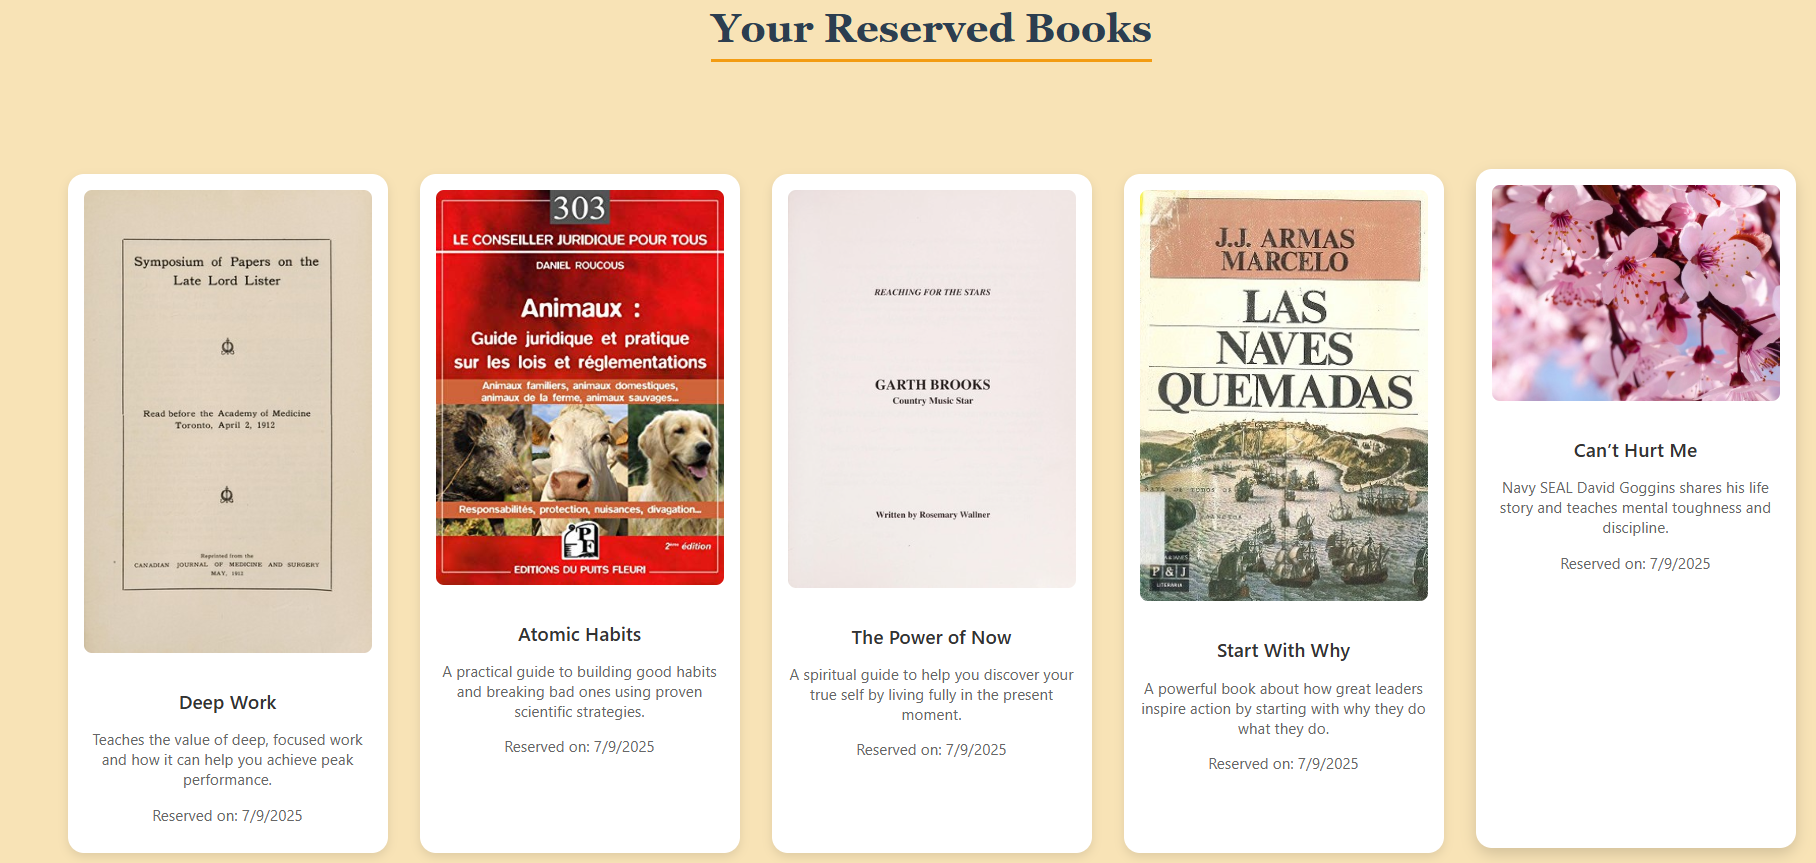
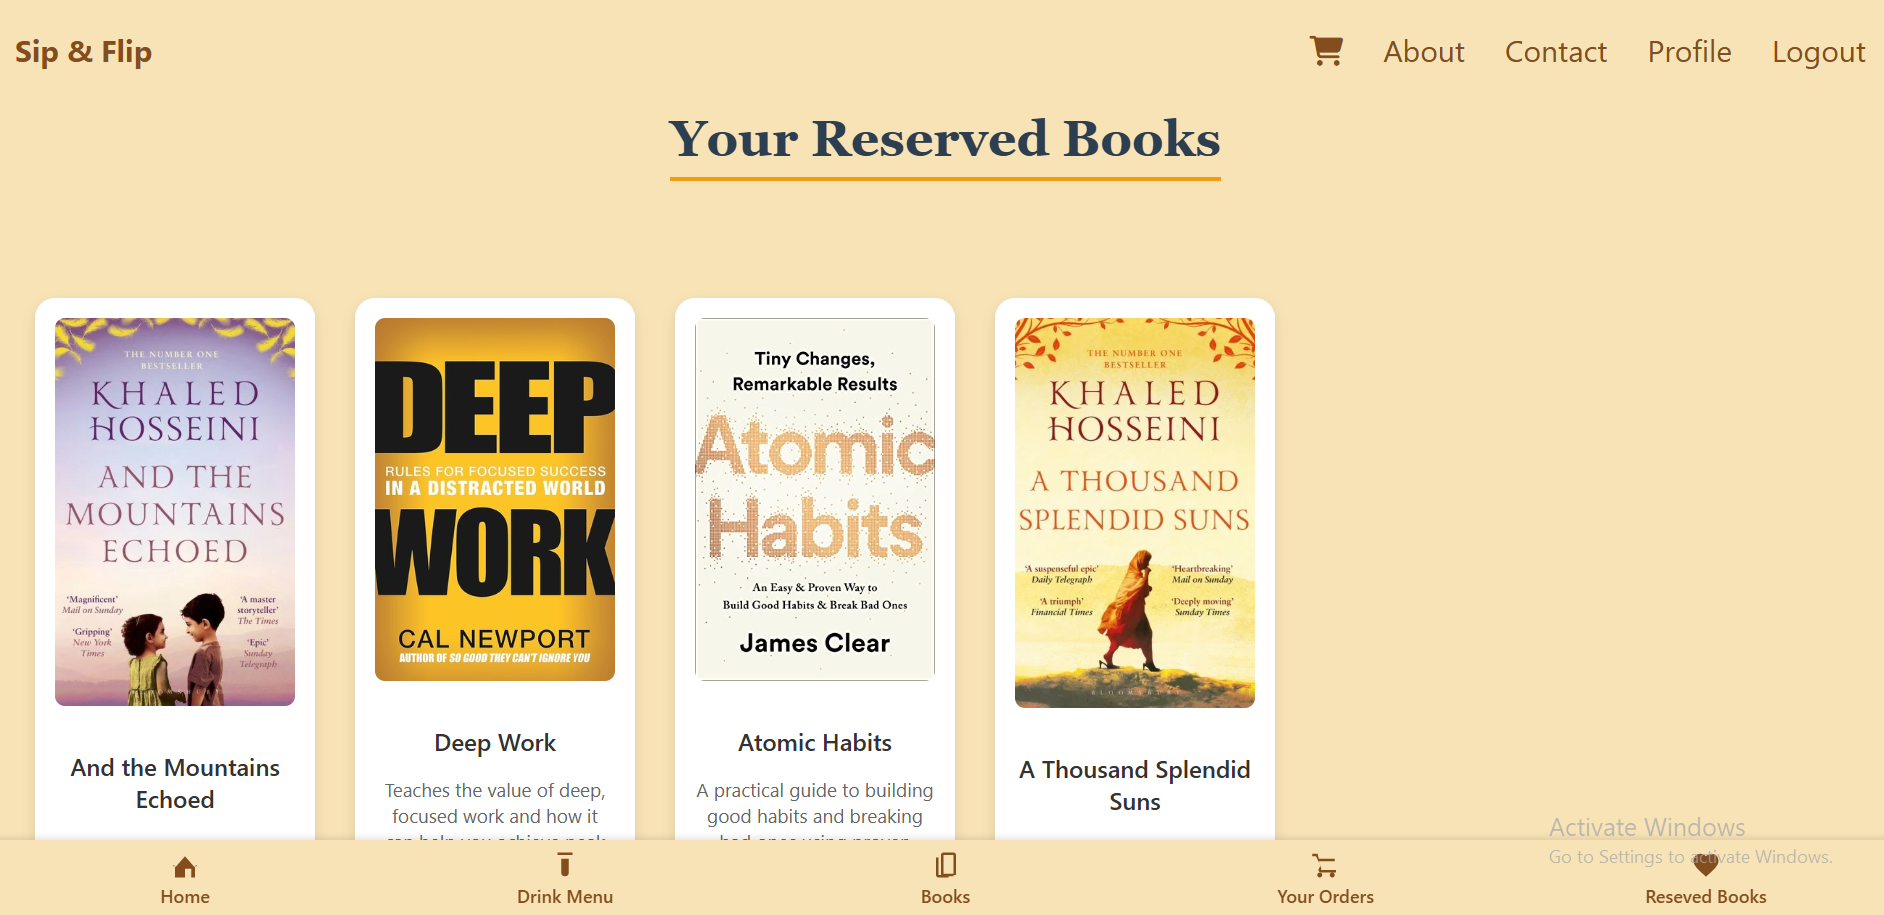
Add new screenshots

diff --git a/public/css/styles.css b/public/css/styles.css
@@ -12,8 +12,7 @@ h2 {
   margin-bottom: 2rem;
 }
 
-.order-container,
-.cart-container {
+.order-container {
   display: flex;
   flex-direction: column;
   gap: 2rem;
@@ -201,7 +200,7 @@ button.checkout-btn:hover {
 
 .place-order-form {
   text-align: center;
-  margin-top: 2rem;
+  margin-top: 0.5rem;
 }
 
 .place-order-btn {
@@ -281,7 +280,7 @@ button.checkout-btn:hover {
   flex-direction: column;
   align-items: center;
   gap: 1rem;
-  margin: 2rem auto;
+  margin: 0rem auto;
 }
 .search_container {
   display: flex;
@@ -313,8 +312,8 @@ button.checkout-btn:hover {
   display: flex;
   flex-wrap: wrap;
   gap: 2rem;
-  padding: 5rem;
-  justify-content: center;
+  padding: 2rem;
+  justify-content: space-between;
   padding-bottom: 5rem;
 }
 
@@ -339,7 +338,7 @@ button.checkout-btn:hover {
   background-color: #fff;
   border-radius: 1rem;
   box-shadow: 0 4px 10px rgba(0, 0, 0, 0.1);
-  width: 18rem;
+  width: 12rem;
   display: flex;
   flex-direction: column;
   align-items: center;
@@ -412,7 +411,7 @@ button.checkout-btn:hover {
   font-family: 'Georgia', serif;
   border-bottom: 0.2rem solid #f39c12;
   width: fit-content;
-  margin: 2rem auto;
+  margin: 0rem auto;
   padding-bottom: 0.5rem;
 }
 .error-message {
@@ -429,6 +428,14 @@ button.checkout-btn:hover {
   opacity: 0;
   transition: opacity 0.5s ease;
   pointer-events: none;
+}
+
+.reservedBooks-container {
+  display: flex;
+  flex-wrap: wrap;
+  gap: 2rem;
+  padding: 2rem;
+  padding-bottom: 5rem;
 }
 @keyframes slideDown {
   from {
